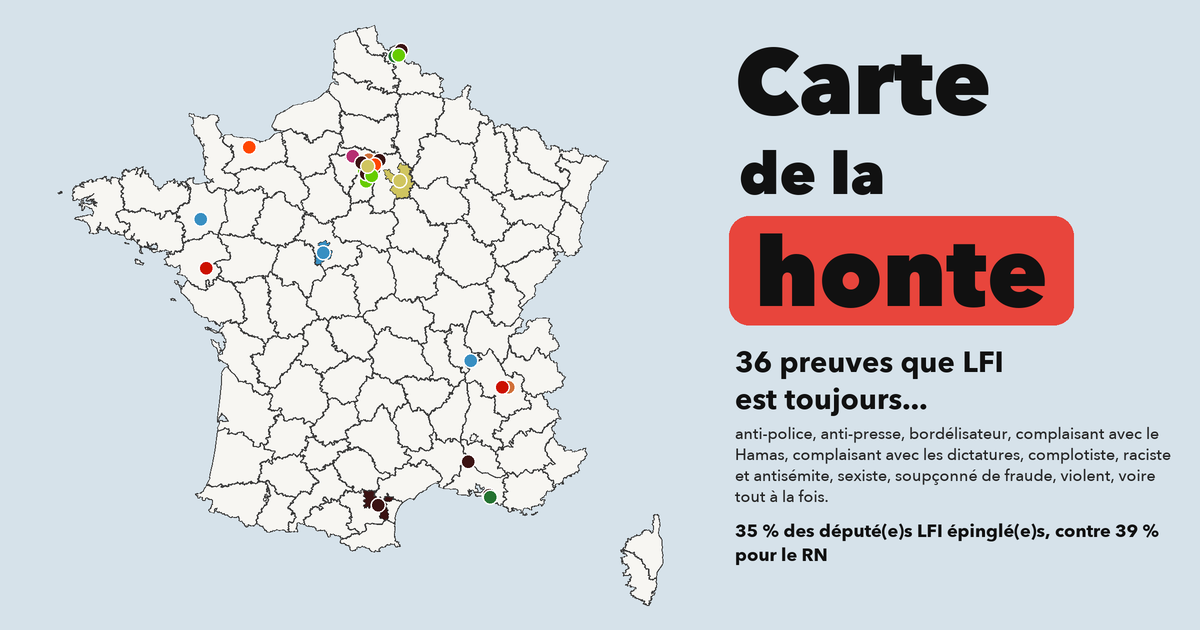
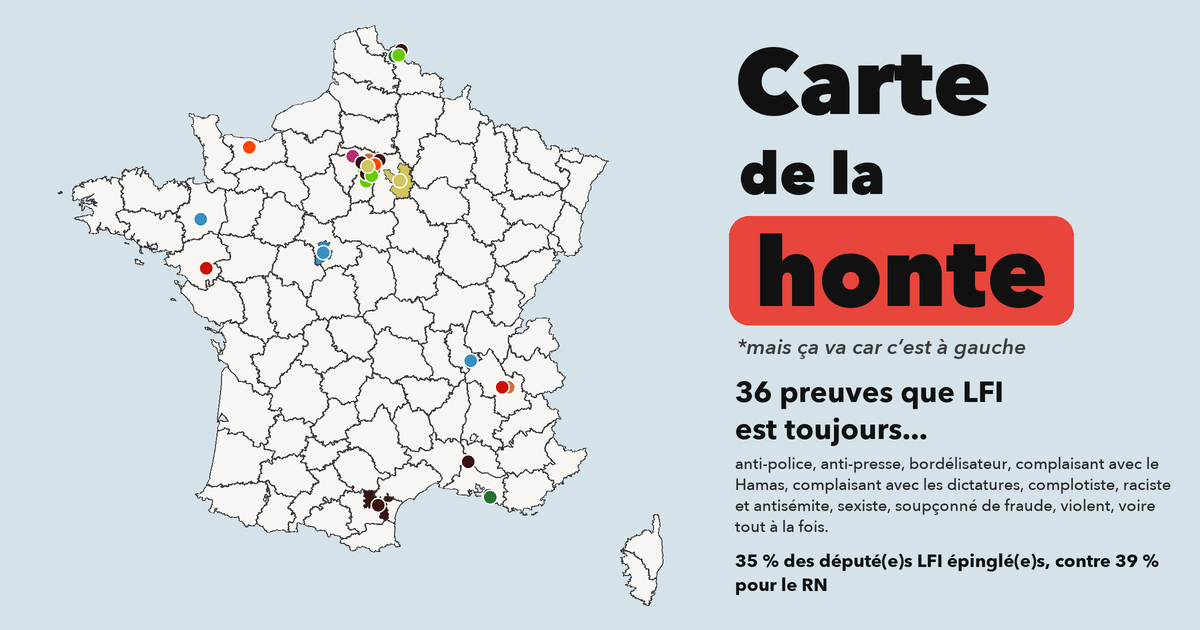
Ajoute « *mais ça va car c'est à gauche » sous « honte » dans l'aperçu

Changed region(s): [[0.6167, 0.5429, 0.9867, 0.9349]]

diff --git a/src/card.py b/src/card.py
@@ -13,7 +13,7 @@ INK = (17, 17, 17)
 RED = (232, 69, 60)
 
 AVENIR = "/System/Library/Fonts/Avenir Next.ttc"
-HEAVY, BOLD, MEDIUM = 8, 0, 5
+HEAVY, BOLD, MEDIUM, DEMI_ITALIC = 8, 0, 5, 3
 
 
 def font(face, size):
@@ -31,7 +31,7 @@ def rings(geom):
         yield poly[0]
 
 
-def make(entries, circos, depts, colors, mix, out_path, title_lines, cats_text, stat_text):
+def make(entries, circos, depts, colors, mix, out_path, title_lines, cats_text, stat_text, tagline=""):
     img = Image.new("RGB", (W * S, H * S), SEA)
     d = ImageDraw.Draw(img)
 
@@ -88,6 +88,10 @@ def make(entries, circos, depts, colors, mix, out_path, title_lines, cats_text, 
     d.text((x - 6 * S + 26 * S - tb[0], by + 17 * S - tb[1]), "honte", font=honte, fill=INK)
 
     y = by + bh + 18 * S
+    if tagline:
+        # Petite mention sous « honte », façon astérisque de bas de page.
+        d.text((x + 2 * S, by + bh + 8 * S), tagline, font=font(DEMI_ITALIC, 21), fill=(60, 60, 60))
+        y += 30 * S
     for line in title_lines:
         d.text((x, y), line, font=font(BOLD, 29), fill=INK)
         y += 37 * S

diff --git a/src/build.py b/src/build.py
@@ -130,6 +130,7 @@ else:
               out_path.parent / "social-card.png",
               [f"{n} preuves que LFI", "est toujours..."],
               ", ".join(present) + ", voire tout à la fois.",
-              f"{pct(n_lfi, LFI_DEPUTES_2024)} % des député(e)s LFI épinglé(e)s, contre {pct(RN_ELUS_CARTE, RN_DEPUTES_2024)} % pour le RN")
+              f"{pct(n_lfi, LFI_DEPUTES_2024)} % des député(e)s LFI épinglé(e)s, contre {pct(RN_ELUS_CARTE, RN_DEPUTES_2024)} % pour le RN",
+              tagline="*mais ça va car c’est à gauche")
     print("image d'aperçu :", out_path.parent / "social-card.png")
 print("catégories présentes :", present)
